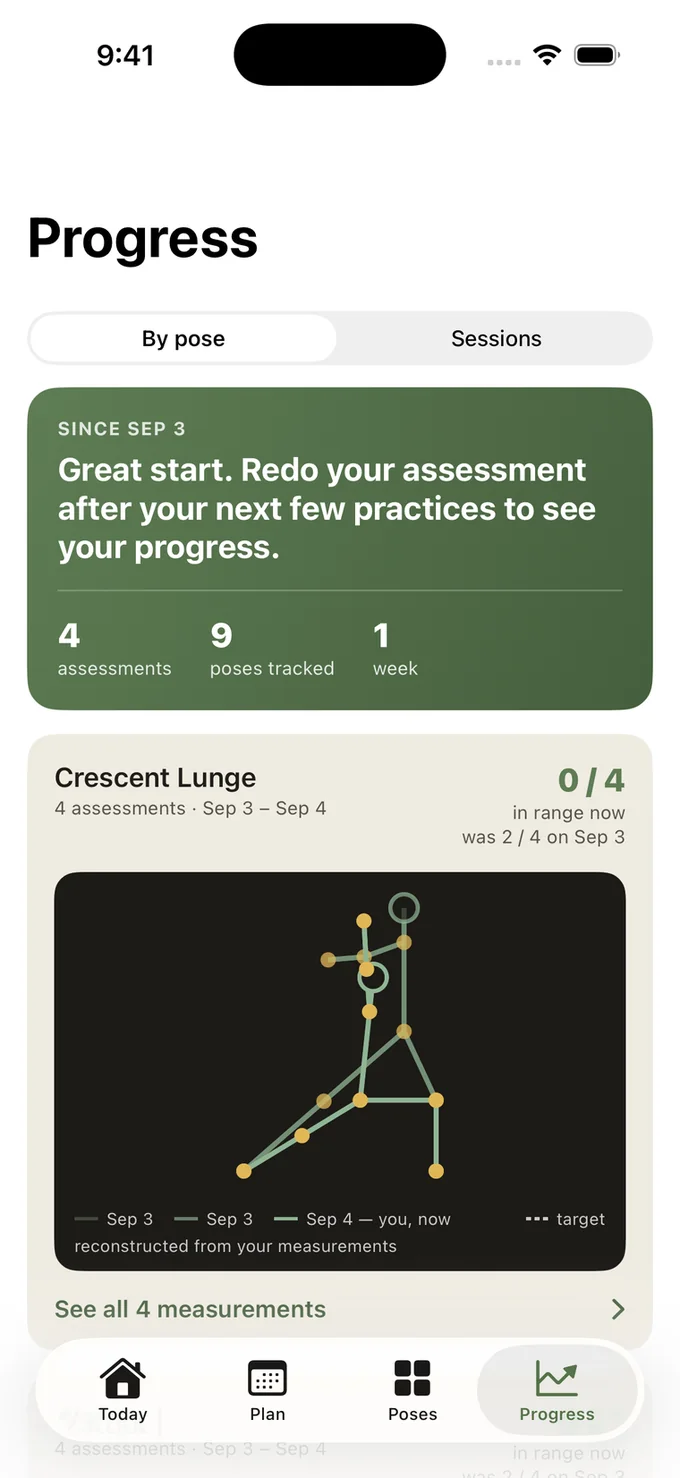
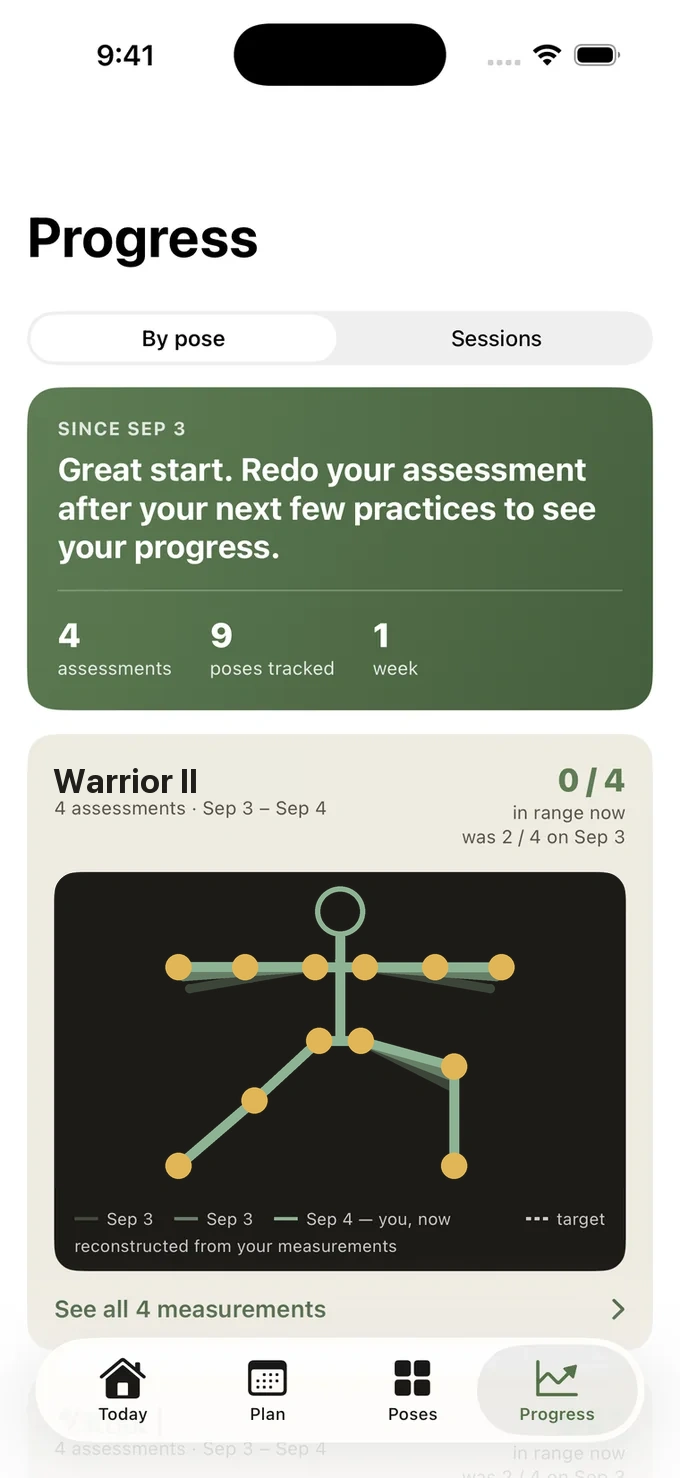
Fix hero phone rendering, plan tiles, OG image, progress skeleton
- Phone mockups use <img> + object-fit:cover instead of a CSS
  background-image, which was rendering with large black bars on the
  live page and cropping off the app's own bottom controls
- Header phone no longer clipped: drop the -18px bottom margin (and the
  desktop translateY) that pushed it past the header's overflow:hidden
- Plan tiles were blank because .fixrow .th set the `background`
  shorthand, which wiped background-image from the lower-specificity
  .a-* classes; use background-color
- Relabel "Goblet squats" -> "Split squats" to match the art and the
  no-equipment constraint
- Recrop og.jpg as a landscape band framing the whole pose; the old crop
  was mostly empty wall with the subject cut off
- Redraw the progress-card skeleton as Warrior II (was an unreadable
  tangle of overlapping crescent lunge traces)
- Bigger logo, centered stats, new bullet icon, tightened hero copy
- Remove the duplicative "What you'll hear" section and its CSS

Changed region(s): [[0.2471, 0.5913, 0.7721, 0.8092], [0.0926, 0.498, 0.3706, 0.5602]]

diff --git a/index.html b/index.html
@@ -59,18 +59,19 @@ h3{font-size:26px;letter-spacing:-.03em;line-height:1.12}
 
 /* phone */
 .ph{background:#0E0D0C;border-radius:38px;padding:8px;box-shadow:0 20px 44px var(--shadow-big);width:100%;max-width:290px;margin:0 auto}
-.ph .sc{width:100%;aspect-ratio:760/1652;border-radius:31px;background-size:cover;background-position:top center;background-repeat:no-repeat;background-color:var(--bg)}
+.ph .sc{width:100%;aspect-ratio:760/1652;border-radius:31px;background-color:var(--bg);overflow:hidden}
+.ph .sc img{width:100%;height:100%;object-fit:cover;object-position:top center;display:block}
 
 /* nav */
 nav{position:sticky;top:0;z-index:50;background:var(--bg);border-bottom:1px solid var(--line)}
 nav .in{display:flex;align-items:center;justify-content:space-between;gap:14px;height:62px;padding:0 20px;max-width:1120px;margin:0 auto}
-.logowrap{position:relative;width:118px;height:29px;flex:none;display:block}
+.logowrap{position:relative;width:140px;height:34px;flex:none;display:block}
 .logowrap div{position:absolute;inset:0;background-repeat:no-repeat;background-position:left center;background-size:contain}
 nav .links{display:none}
 nav .navcta{width:auto;padding:10px 18px;font-size:14.5px}
 
 /* header */
-.header{position:relative;background:var(--art);overflow:hidden;border-bottom:1px solid var(--line);padding:44px 0 0}
+.header{position:relative;background:var(--art);overflow:hidden;border-bottom:1px solid var(--line);padding:44px 0 36px}
 .headerart{position:absolute;inset:0;pointer-events:none}
 .headerart i{position:absolute;display:block;background-repeat:no-repeat;background-size:contain;opacity:.16}
 .headerart .a{width:190px;height:190px;left:-56px;top:8px}
@@ -84,11 +85,11 @@ nav .navcta{width:auto;padding:10px 18px;font-size:14.5px}
 .rtb{list-style:none;padding:0;margin:0 0 26px;display:flex;flex-direction:column;gap:11px}
 .rtb li{display:grid;grid-template-columns:22px minmax(0,1fr);gap:11px;align-items:start;font-size:16px;font-weight:600;letter-spacing:-.015em;line-height:1.32}
 .rtb svg{width:20px;height:20px;color:var(--accent);margin-top:1px}
-.hphone{margin:34px auto -18px;max-width:270px}
+.hphone{margin:34px auto 0;max-width:270px}
 
 /* stats */
 .stats{background:var(--surface);border-bottom:1px solid var(--line)}
-.statgrid{display:grid;grid-template-columns:repeat(2,1fr);gap:22px 16px;padding:26px 20px;max-width:1120px;margin:0 auto}
+.statgrid{display:grid;grid-template-columns:repeat(2,1fr);gap:26px 16px;padding:30px 20px;max-width:1120px;margin:0 auto;text-align:center}
 .stat b{display:block;font-size:29px;font-weight:800;letter-spacing:-.035em;line-height:1}
 .stat span{display:block;font-size:13.5px;color:var(--ink-soft);margin-top:4px}
 
@@ -110,18 +111,13 @@ section{padding:62px 0}
 
 /* fixing rows */
 .fixrow{display:grid;grid-template-columns:44px minmax(0,1fr);gap:13px;align-items:center;padding:13px 0;border-top:1px solid var(--line)}
-.fixrow .th{width:44px;height:44px;border-radius:11px;background:var(--art);background-size:cover;background-position:center}
+.fixrow .th{width:44px;height:44px;border-radius:11px;background-color:var(--art);background-size:cover;background-position:center}
 .fixrow b{display:block;font-size:15.5px;font-weight:700;letter-spacing:-.015em;line-height:1.25}
 .fixrow .ex{font-size:14px;font-weight:700;color:var(--accent)}
 
 .tallyline{display:flex;align-items:baseline;gap:11px;font-size:16px;color:var(--ink-soft)}
 .tallyline b{font-size:32px;font-weight:800;letter-spacing:-.035em;color:var(--accent)}
 .tallyline s{color:var(--ink-faint)}
-
-/* quote wall */
-.saysgrid{display:flex;flex-direction:column;gap:12px}
-.says{background:var(--surface);border-radius:22px;padding:22px 22px;font-size:18px;font-weight:700;letter-spacing:-.024em;line-height:1.28}
-.says em{font-style:normal;color:var(--accent)}
 
 /* poses */
 .posegrid{display:grid;grid-template-columns:repeat(2,1fr);gap:12px}
@@ -154,7 +150,7 @@ footer a{text-decoration:none}
   nav .in{height:70px;padding:0 28px}
   nav .links{display:flex;gap:26px;font-size:15px;font-weight:600;color:var(--ink-soft)}
   nav .links a{text-decoration:none}
-  .logowrap{width:140px;height:34px}
+  .logowrap{width:164px;height:40px}
 
   .header{padding:72px 0 0}
   .headerin{display:grid;grid-template-columns:minmax(0,1fr) minmax(0,390px);gap:56px;align-items:end}
@@ -168,7 +164,7 @@ footer a{text-decoration:none}
   .rtb{margin-bottom:30px;max-width:44ch}
   .rtb li{font-size:17px}
   .hcta{flex-direction:row;gap:12px}
-  .hphone{margin:0;max-width:330px;transform:translateY(18px)}
+  .hphone{margin:0;max-width:330px}
 
   .statgrid{grid-template-columns:repeat(4,1fr);padding:32px 28px}
   .stat b{font-size:33px}
@@ -192,9 +188,6 @@ footer a{text-decoration:none}
   .fixrow .th{width:48px;height:48px}
   .fixrow .ex{text-align:right;font-size:15px}
 
-  .saysgrid{display:grid;grid-template-columns:repeat(3,1fr);gap:18px}
-  .says{padding:28px 26px;font-size:19px}
-  .says.big{grid-column:span 2;font-size:22px}
 
   .posegrid{grid-template-columns:repeat(auto-fill,minmax(150px,1fr));gap:16px}
   .pose{border-radius:20px}
@@ -206,11 +199,6 @@ footer a{text-decoration:none}
   footer .links{margin-top:0}
 }
 
-.s-camera{background-image:url(assets/app_camera.webp)}
-.s-plan{background-image:url(assets/app_plan.webp)}
-.s-practice{background-image:url(assets/app_practice.webp)}
-.s-progress{background-image:url(assets/app_progress.webp)}
-.s-today{background-image:url(assets/app_today.webp)}
 .h-crescent_lunge{background-image:url(assets/art_crescent_lunge.webp)}
 .h-downward_dog{background-image:url(assets/art_downward_dog.webp)}
 .h-goddess_pose{background-image:url(assets/art_goddess_pose.webp)}
@@ -272,18 +260,18 @@ nav .navcta{padding:10px 16px;font-size:14px}
   <div class="wrap headerin">
     <div class="htext">
       <h1>Better asanas.<br>Six minutes a day.</h1>
-      <p class="lead">Posewise analyses your poses, then builds you a daily six-minute workout based on the specific strength and flexibility exercises <em>you</em> need to improve your practice.</p>
+      <p class="lead">Posewise analyses your poses, then builds custom workouts based on the strength and flexibility exercises <em>you</em> need to improve your practice.</p>
       <ul class="rtb">
         <li><svg viewBox="0 0 24 24" fill="none" stroke="currentColor" stroke-width="2" stroke-linecap="round" stroke-linejoin="round"><path d="M4 8V5.5A1.5 1.5 0 0 1 5.5 4H8M16 4h2.5A1.5 1.5 0 0 1 20 5.5V8M20 16v2.5a1.5 1.5 0 0 1-1.5 1.5H16M8 20H5.5A1.5 1.5 0 0 1 4 18.5V16"/><circle cx="12" cy="12" r="3"/></svg><span>Camera-based pose analysis</span></li>
         <li><svg viewBox="0 0 24 24" fill="none" stroke="currentColor" stroke-width="2" stroke-linecap="round" stroke-linejoin="round"><path d="M11 5 6 9H2v6h4l5 4V5z"/><path d="M15.5 8.5a5 5 0 0 1 0 7"/><path d="M19 5a9 9 0 0 1 0 14"/></svg><span>Live mid-pose corrections</span></li>
-        <li><svg viewBox="0 0 24 24" fill="none" stroke="currentColor" stroke-width="2" stroke-linecap="round" stroke-linejoin="round"><path d="M12 20v-6M12 10V4M5 20v-4M5 12V4M19 20v-9M19 7V4"/><path d="M2.5 14h5M9.5 10h5M16.5 11h5"/></svg><span>Strength and flexibility workouts, built for you</span></li>
+        <li><svg viewBox="0 0 24 24" fill="none" stroke="currentColor" stroke-width="2" stroke-linecap="round" stroke-linejoin="round"><circle cx="12" cy="4.5" r="2.1"/><path d="M12 6.8v6.1"/><path d="M5.6 10.2h12.8"/><path d="M12 12.9 8.2 20M12 12.9 15.8 20"/></svg><span>Guided strength and flexibility workouts, built for you</span></li>
       </ul>
       <div class="hcta">
         <a class="btn primary" href="#join">Join the beta</a>
       </div>
-      <p class="small">Free during the beta · iPhone only</p>
+      <p class="small">Free during beta · Built for iOS</p>
     </div>
-    <div class="hphone"><div class="ph"><div class="sc s-camera"></div></div></div>
+    <div class="hphone"><div class="ph"><div class="sc"><img src="assets/app_camera.webp" alt="Posewise camera view showing a Downward Dog pose with live pose analysis"></div></div></div>
   </div>
 </header>
 
@@ -318,11 +306,11 @@ nav .navcta{padding:10px 16px;font-size:14px}
           <h3>Your own three-week plan.</h3>
           <div class="fixrows">
             <div class="fixrow"><div class="th a-wall_slides"></div><div><b>Arms reaching overhead</b><div class="ex">Wall slides</div></div></div>
-            <div class="fixrow"><div class="th a-split_squat"></div><div><b>Front knee bend</b><div class="ex">Goblet squats</div></div></div>
+            <div class="fixrow"><div class="th a-split_squat"></div><div><b>Front knee bend</b><div class="ex">Split squats</div></div></div>
             <div class="fixrow"><div class="th a-hip_flexor_stretch"></div><div><b>Backbend depth at the hip</b><div class="ex">Hip flexor stretch</div></div></div>
           </div>
         </div>
-        <div class="vis"><div class="ph"><div class="sc s-plan"></div></div></div>
+        <div class="vis"><div class="ph"><div class="sc"><img src="assets/app_plan.webp" alt="Posewise three-week improvement plan screen"></div></div></div>
       </div>
 
       <div class="stepx">
@@ -330,7 +318,7 @@ nav .navcta{padding:10px 16px;font-size:14px}
           <span class="stepno"><i>3</i><span>Do your custom workouts</span></span>
           <h3>Six guided minutes a day.</h3>
         </div>
-        <div class="vis"><div class="ph"><div class="sc s-practice"></div></div></div>
+        <div class="vis"><div class="ph"><div class="sc"><img src="assets/app_practice.webp" alt="Posewise guided daily practice screen"></div></div></div>
       </div>
 
       <div class="stepx">
@@ -339,28 +327,14 @@ nav .navcta{padding:10px 16px;font-size:14px}
           <h3>Watch your pose change.</h3>
           <div class="tallyline"><b>3/5</b><span>in range now — <s>was 1/5</s></span></div>
         </div>
-        <div class="vis"><div class="ph"><div class="sc s-progress"></div></div></div>
+        <div class="vis"><div class="ph"><div class="sc"><img src="assets/app_progress.webp" alt="Posewise progress tracking screen"></div></div></div>
       </div>
 
     </div>
 
     <div style="margin-top:56px">
       <a class="btn primary" href="#join">Join the beta</a>
-      <p class="small">Free during the beta · iPhone only</p>
-    </div>
-  </div>
-</section>
-
-<section style="padding-top:0">
-  <div class="wrap">
-    <div class="shead"><h2>What you’ll hear.</h2></div>
-    <div class="saysgrid">
-      <div class="says big">“This is a baseline, not a grade — your 3-week plan is built around it, not <em>against</em> it.”</div>
-      <div class="says">“Still building strength here. Try push-up holds to help with this.”</div>
-      <div class="says">“Today’s work is what your Extended Side Angle has been waiting for.”</div>
-      <div class="says">“A day off is part of the plan — it’s when the work you’ve already done actually takes.”</div>
-      <div class="says">“Want me to build a plan around this?”</div>
-      <div class="says">“Let’s see how far you’ve come.”</div>
+      <p class="small">Free during beta · Built for iOS</p>
     </div>
   </div>
 </section>
@@ -406,7 +380,7 @@ nav .navcta{padding:10px 16px;font-size:14px}
       <input type="hidden" name="_next" value="https://posewise.app/thanks">
       <input type="text" name="_honey" style="display:none" tabindex="-1" autocomplete="off">
       <button class="btn primary" type="submit">Join the beta</button>
-      <p class="small">One click to unsubscribe. Never shared.</p>
+      <p class="small">One click to unsubscribe.</p>
     </form>
   </div>
 </section>
